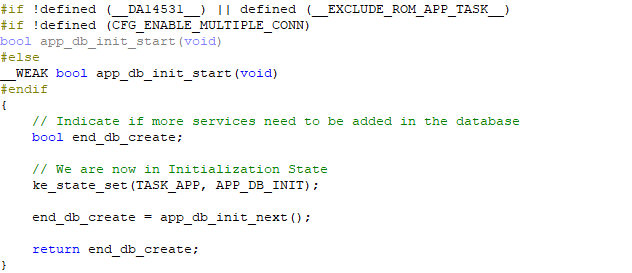
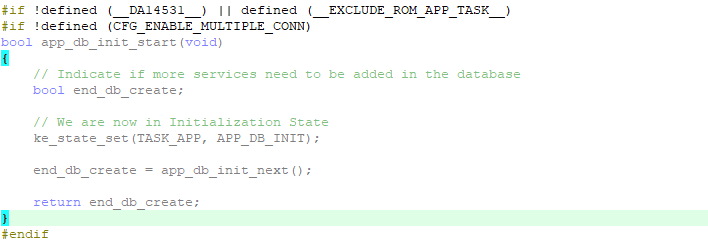
Corrections in Readme.md file * Minor changes in code

Changed region(s): [[0.0, 0.0, 0.8117, 0.392], [0.0301, 0.42, 0.8418, 0.728], [0.0, 0.784, 1.0, 0.98]]

diff --git a/LPCCSE-133-multi_con_periph/src/config/da1458x_config_basic.h b/LPCCSE-133-multi_con_periph/src/config/da1458x_config_basic.h
@@ -205,7 +205,9 @@
 /****************************************************************************************************************/
 /* Enable multiple connections configuration                                                                    */
 /****************************************************************************************************************/
-#define CFG_ENABLE_MULTIPLE_CONN
+#if CFG_MAX_CONNECTIONS > (1)
+    #define CFG_ENABLE_MULTIPLE_CONN
+#endif
 
 #endif
 

diff --git a/LPCCSE-133-multi_con_periph/Readme.md b/LPCCSE-133-multi_con_periph/Readme.md
@@ -39,12 +39,26 @@ The demo exposes a custom profile including 3 services.
 ## SDK Changes
 
 The default settings of the SDK supports only one connection, hence to properly run this example the user should apply changes to the files of the SDK in order to be able to connect to multiple centrals. In the files provided in the example all the SDK code related changes are moved to application level via bypassing the SDK code. Minor changes in the SDK files that should be applied in order to change SDK configuration or override SDK functions should be guarded via the CFG_ENABLE_MULTIMPLE_CONN, which is defined in da1458x_config_basic.h file. The changes are mentioned below:
-- To be able to overide the default functions of the SDK the __ __EXCLUDE_ROM_APP_TASK__ __ be defined in the C/C++ tab in the "options for target" in keil (the ROM functions that correspond to that the specific guard should also be removed from the da14531_symbols.txt).
+- To be able to overide the default functions of the SDK the __ __EXCLUDE_ROM_APP_TASK__ __ should be defined in the C/C++ tab in the "options for target" in keil. 
 
 	![options_for_target](assets/options_for_target.png)
-- app.h : apply to the APP_EASY_MAX_ACTIVE_CONNECTION the maximum connections that should be supported (DA14531 - 3 maximum connections and DA14585/6 - 8 maximum connections)
+
+	The ROM functions that correspond to that the specific guard should also be removed from the da14531_symbols.txt. If not removed the linker will output an error for multiple defined functions. From the error of the linker it is visible to the end user which function should be removed from the .txt file (the da14531_symbols.txt file is located in \sdk\common_project_files\misc\).
+
+	When all ROM functions are commented from the da14531_symbols.txt file the linking should also fail due to the multiple definition of the app_db_init_start() function declared in the user_multi_peripheral.c file. This is an SDK function that it will be overriden via application level code.
+
+	![linker_error](assets/linker_error.png)
+
+- app.h : 
+
+	- apply to the #define APP_EASY_MAX_ACTIVE_CONNECTION the maximum connections that should be supported (DA14531 - 3 maximum connections and DA14585/6 - 8 maximum connections). The maximum supported connections are defined in the BLE_CONNECTION_MAX definition.
 	
-	![app_h](assets/app_h_changes.png)
+		![app_h](assets/app_h_changes.png)
+
+	- apply the following changes according to the below snippet in order for the app_db_init_next() function to be invoked from application level.
+
+		![app_h_changes_init_next](assets/app_h_changes_init_next.png)
+
 - app_task.h : apply to the APP_IDX_MAX the maximum number or task instances that the application should support. This should agree with the max active connections that the device is supporting.
 	
 	![app_task_h](assets/app_task_h_changes.png)
@@ -52,10 +66,10 @@ The default settings of the SDK supports only one connection, hence to properly 
 	- In order to be able to use the app_db_init_next() function in application level for initializing the device's database the "static" identifier should be removed.
 	
 		![app_c_changes_db_init_next](assets/app_c_changes_db_init_next.png)
-	- The app_db_init_start() function needs to be modified to support multiple connections. To apply the changes in application level, in the original SDK function, the __WEAK identifier should be added and provide the new function in application level.
+	- The app_db_init_start() function needs to be modified to support multiple connections. To apply the changes in application level, the SDK function needs to be excluded from the build using the CFG_ENABLE_MULTIPLE_CONN guard. 
 	
 		![app_c_changes_db_init_start](assets/app_c_changes_db_init_start.png)  
-- app_task.c : In app_task.c file the connection and disconnection handlers of the device should be modified in order to support the multiple connection feature. The complete functions supporting multiple connections are located in the user_multi_peripheral.c file of the example. In order to overide the SDK functions a __WEAK identifier is added in the app.c file in the:
+- app_task.c : In app_task.c file the connection and disconnection handlers of the device should be modified in order to support the multiple connection feature. The complete functions supporting multiple connections are located in the user_multi_peripheral.c file of the example. In order to overide the SDK functions a __WEAK identifier is added in the in each function:
 	- gapc_connection_ind_handler
 
 		![gapc_connection_req_ind_handler_change](assets/gapc_connection_req_ind_handler_change.png)
